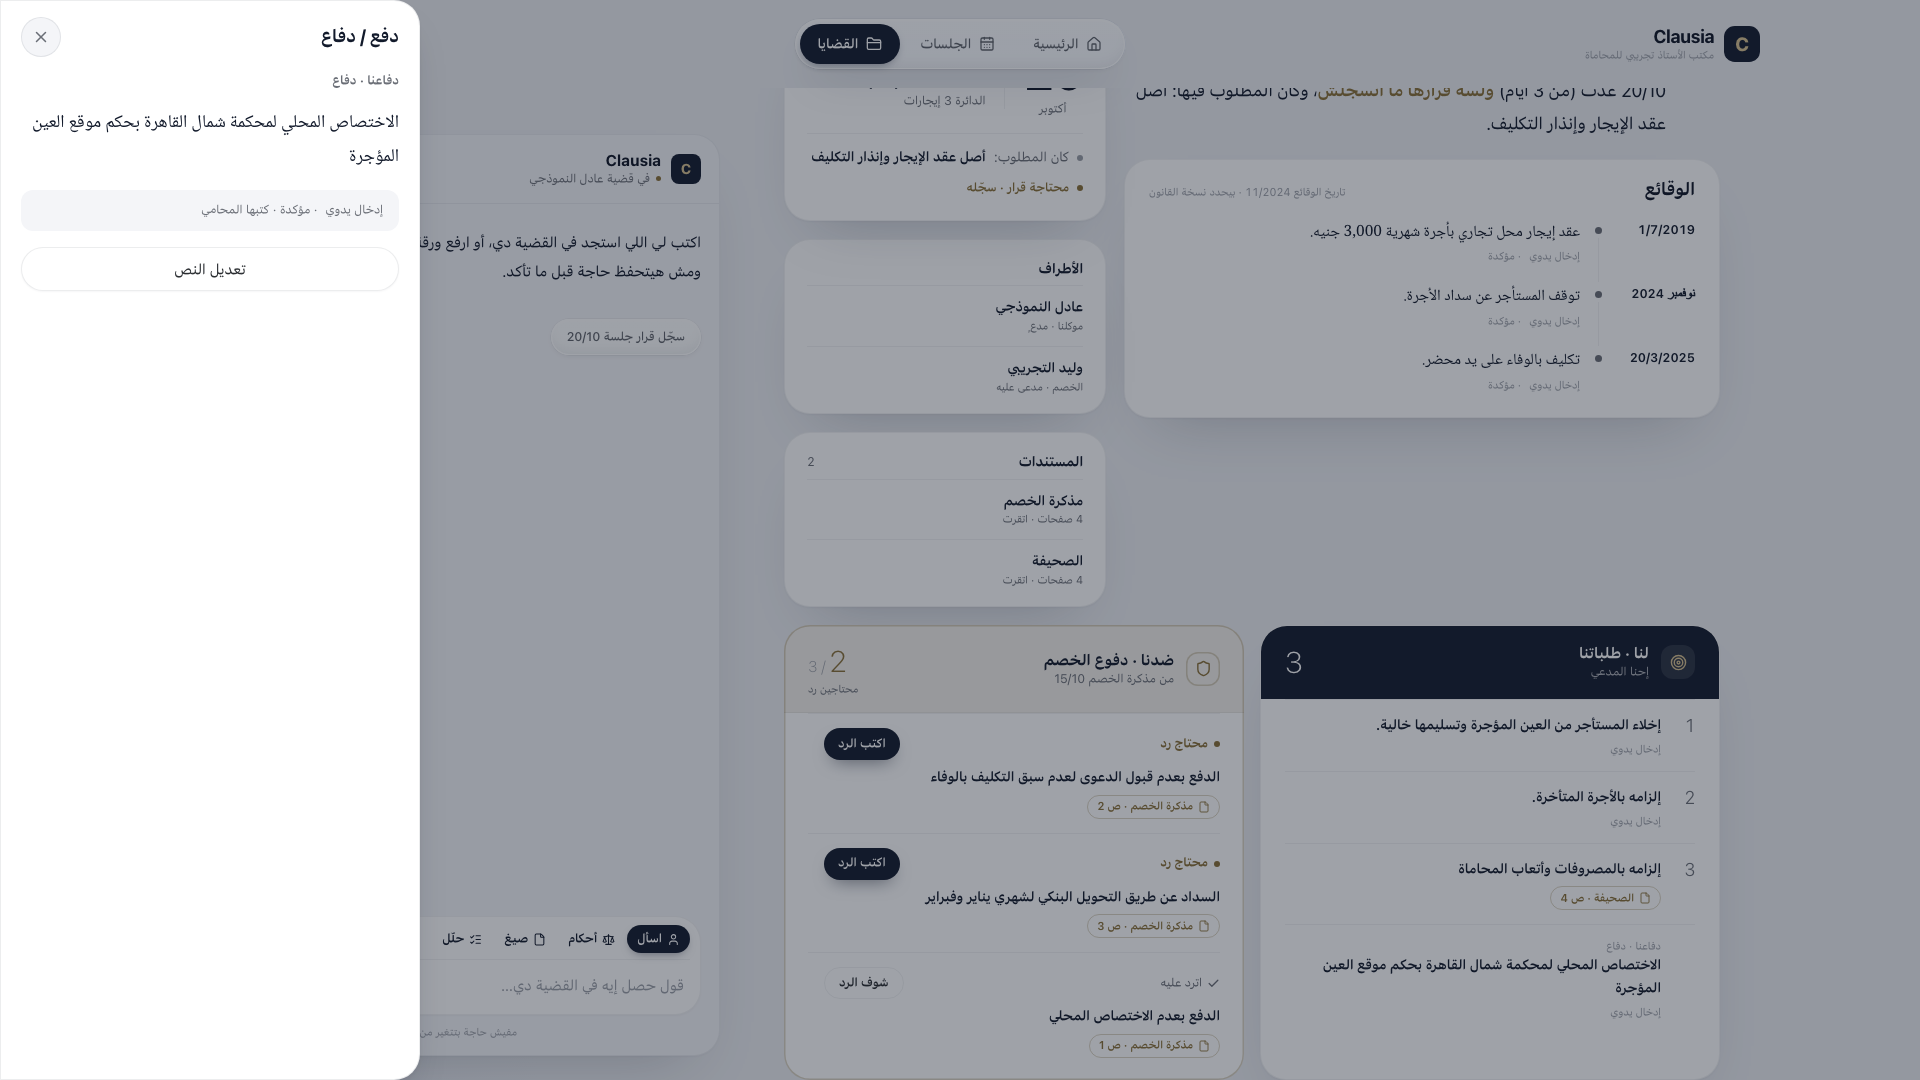
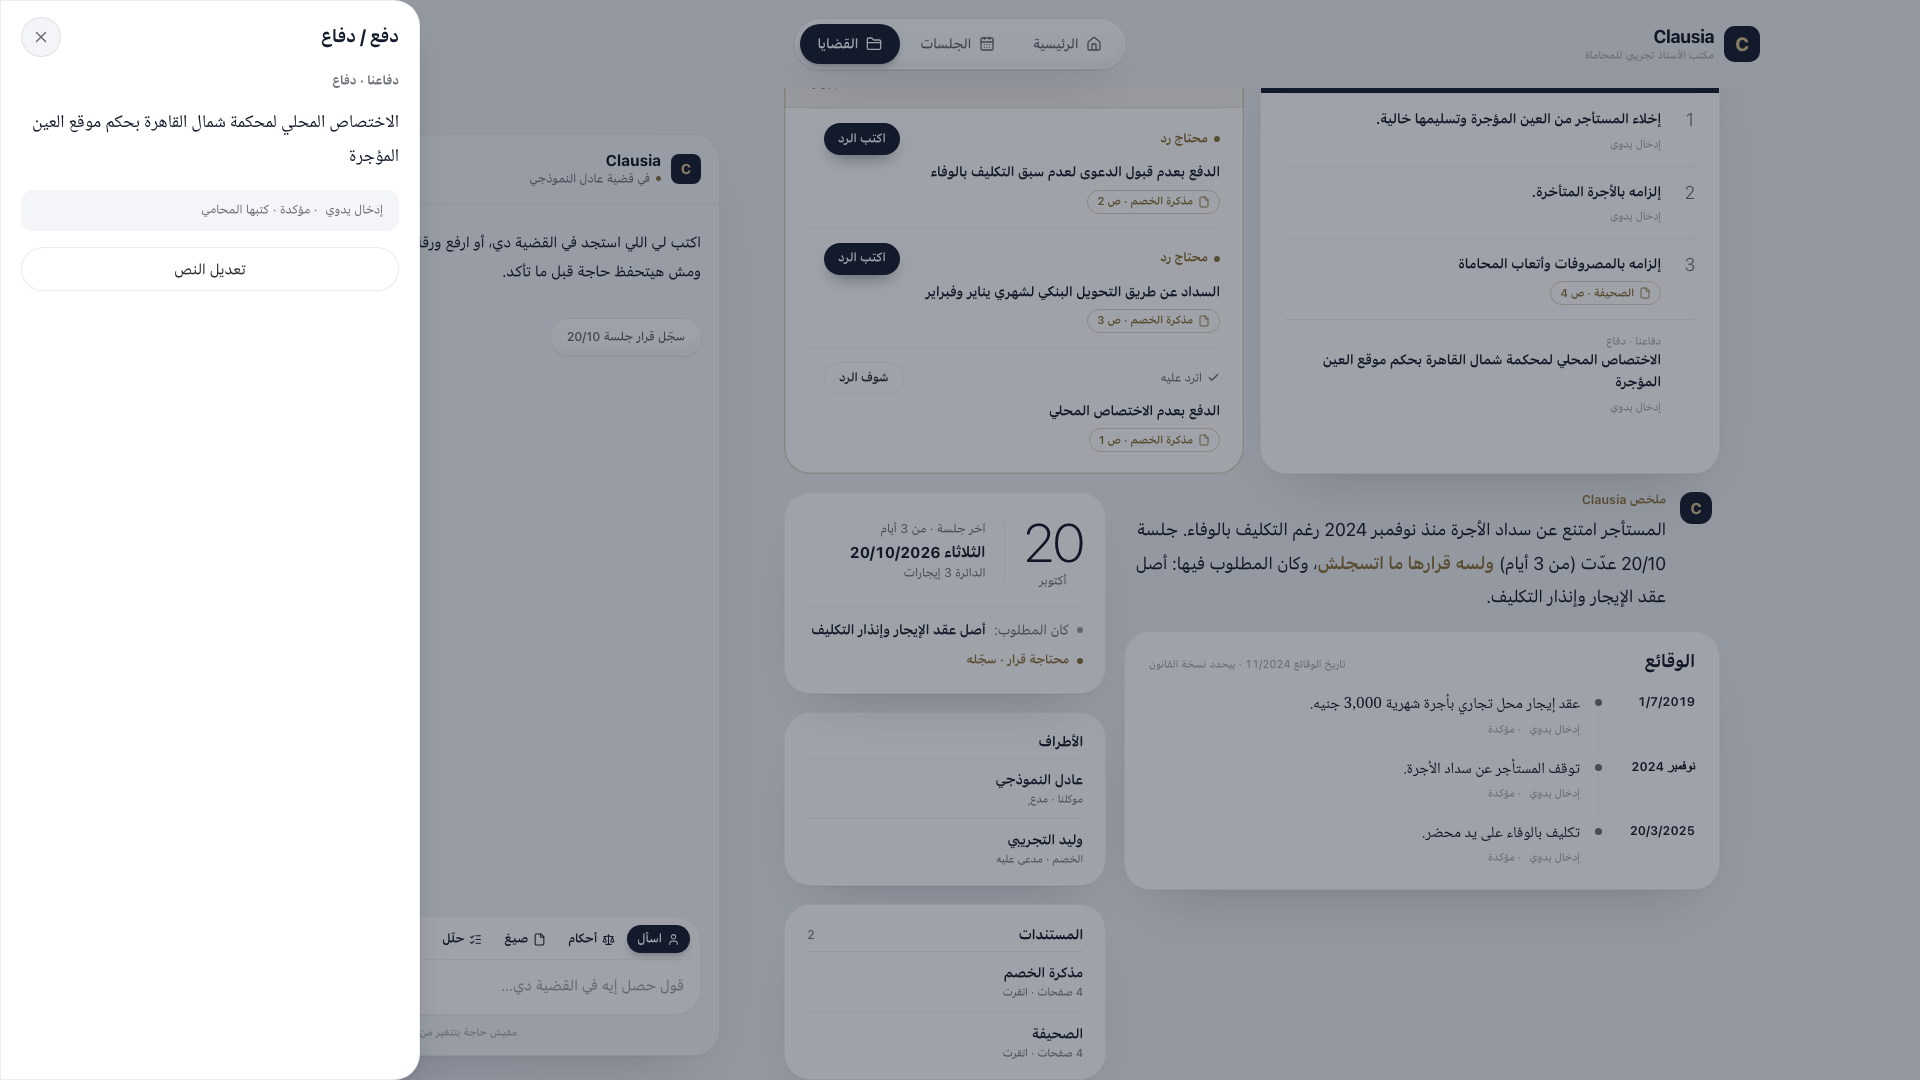
Sides first in the DOM too (focus order matches the screen; review note); re-shot Sides-*

diff --git a/src/components/cases/CaseOverview.tsx b/src/components/cases/CaseOverview.tsx
@@ -526,6 +526,8 @@ export function CaseOverview({ cf, hs, today, caseId, edits }: { cf: CaseFile; h
   return (
     <TabScope>
       <div className="mt-3 flex flex-col gap-3 leading-[1.35] lg:mt-8.5 lg:grid lg:grid-cols-[minmax(0,1.85fr)_minmax(0,1fr)] lg:items-start lg:gap-4.5">
+        {/* desktop: its own full-width first row, right under the header card (two equal cards, mockup Sides*; owner 2026-10-23); first in the DOM too, so focus order matches; phone: after the facts (order-6), as before */}
+        <Sides cf={cf} caseId={caseId} edits={edits} className="order-6 lg:order-none lg:col-span-2" />
         <div className="contents lg:flex lg:min-w-0 lg:flex-col lg:gap-4.5">
           <Summary cf={cf} hs={hs} today={today} edits={edits} className="order-2 mt-1.5 lg:order-none lg:mt-0" />
           <ReviewBanner cf={cf} hs={hs} caseId={caseId} className="order-3" />
@@ -541,8 +543,6 @@ export function CaseOverview({ cf, hs, today, caseId, edits }: { cf: CaseFile; h
           <Seg k="parties" className="order-5 lg:order-none"><Parties cf={cf} caseId={caseId} edits={edits} /></Seg>
           <Seg k="docs" className="order-5 lg:order-none"><Docs cf={cf} caseId={caseId} /></Seg>
         </div>
-        {/* desktop: its own full-width first row, right under the header card (two equal cards, mockup Sides*; owner 2026-10-23); phone: after the facts, as before */}
-        <Sides cf={cf} caseId={caseId} edits={edits} className="order-6 lg:order-first lg:col-span-2" />
       </div>
     </TabScope>
   );
